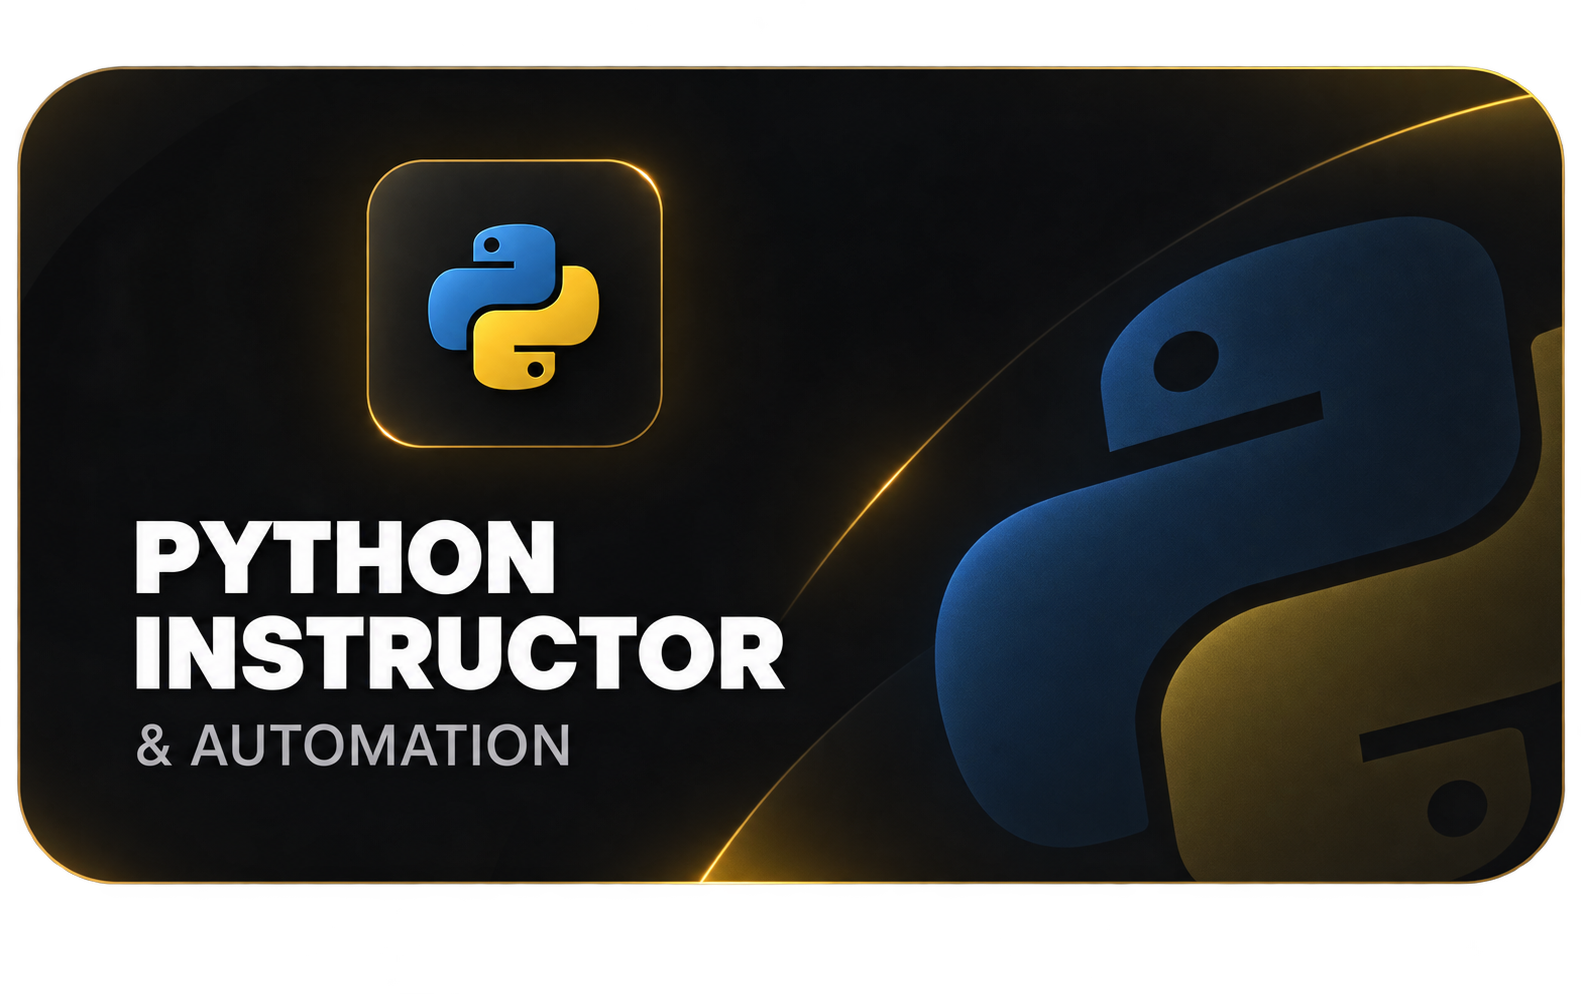
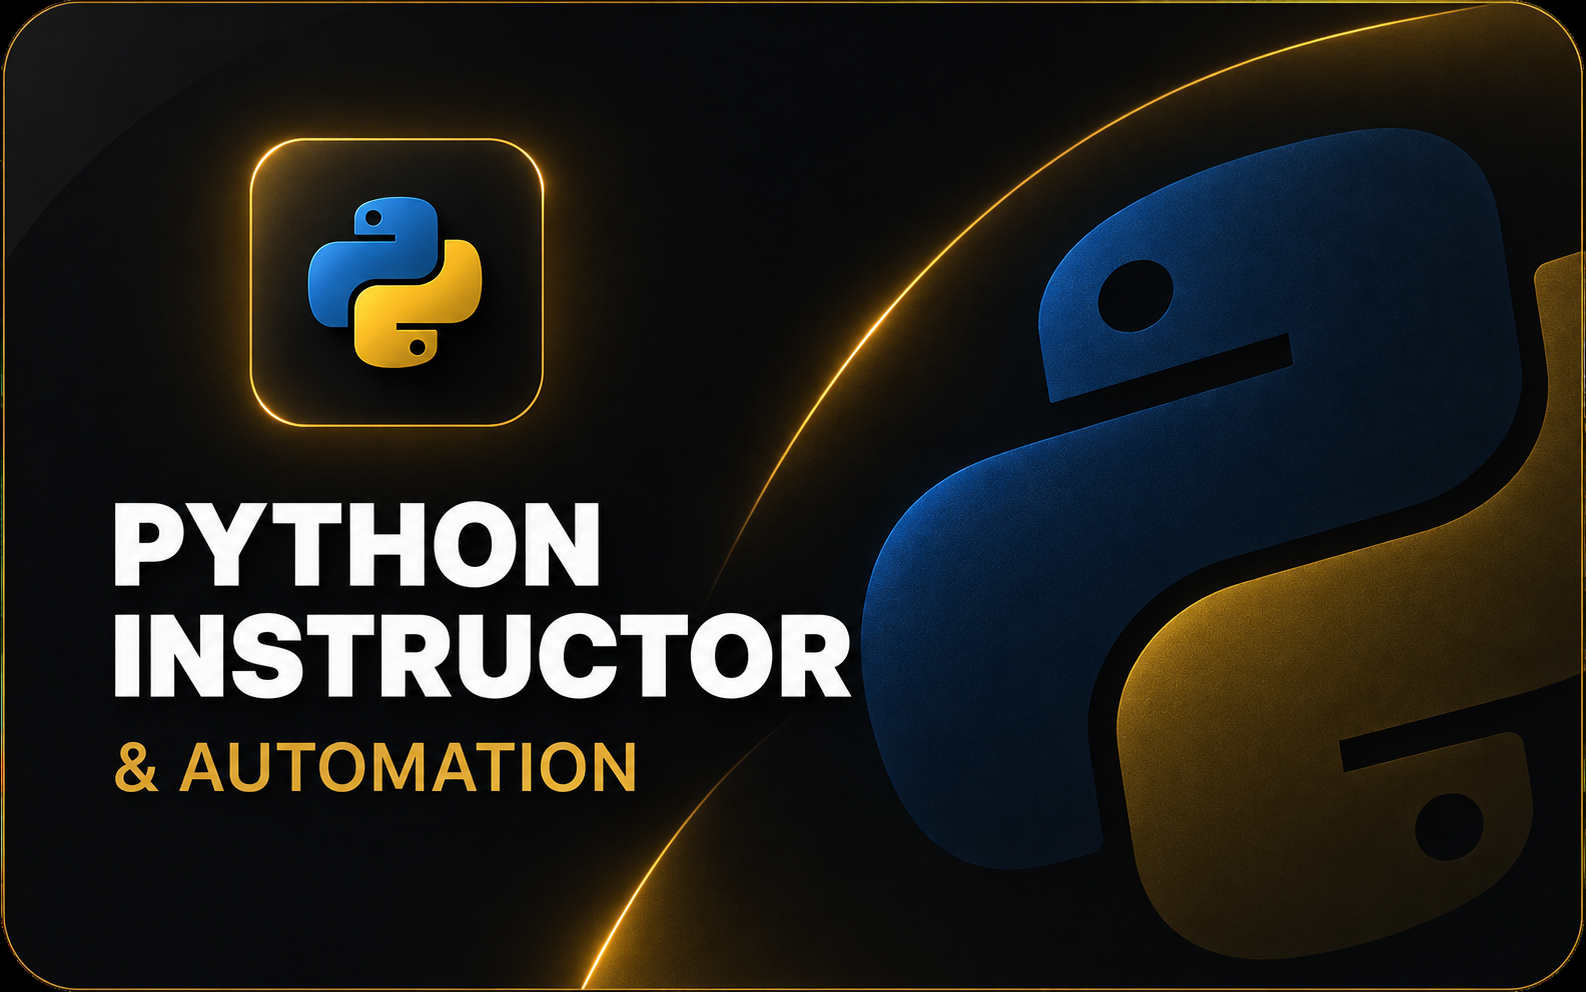
style: remove zoom from python card to display perfectly dimensioned image

diff --git a/artifacts/mustaq-portfolio/src/App.tsx b/artifacts/mustaq-portfolio/src/App.tsx
@@ -459,7 +459,7 @@ function OverviewNetwork() {
         initial={{ opacity: 0, y: 30 }} whileInView={{ opacity: 1, y: 0 }} transition={{ delay: 0.6, duration: 0.6 }}
         className="relative z-10 lg:absolute lg:top-[420px] lg:left-[72%] w-full lg:w-[28%] aspect-[1.6/1] rounded-[24px] overflow-hidden shadow-[0_15px_30px_rgba(245,175,25,0.15)]"
       >
-        <img src={pythonImg} alt="Python Instructor & Automation" className="absolute inset-0 w-full h-full object-cover object-center scale-[1.05] pointer-events-none block" />
+        <img src={pythonImg} alt="Python Instructor & Automation" className="absolute inset-0 w-full h-full object-cover object-center pointer-events-none block" />
       </motion.div>
     </div>
   );
